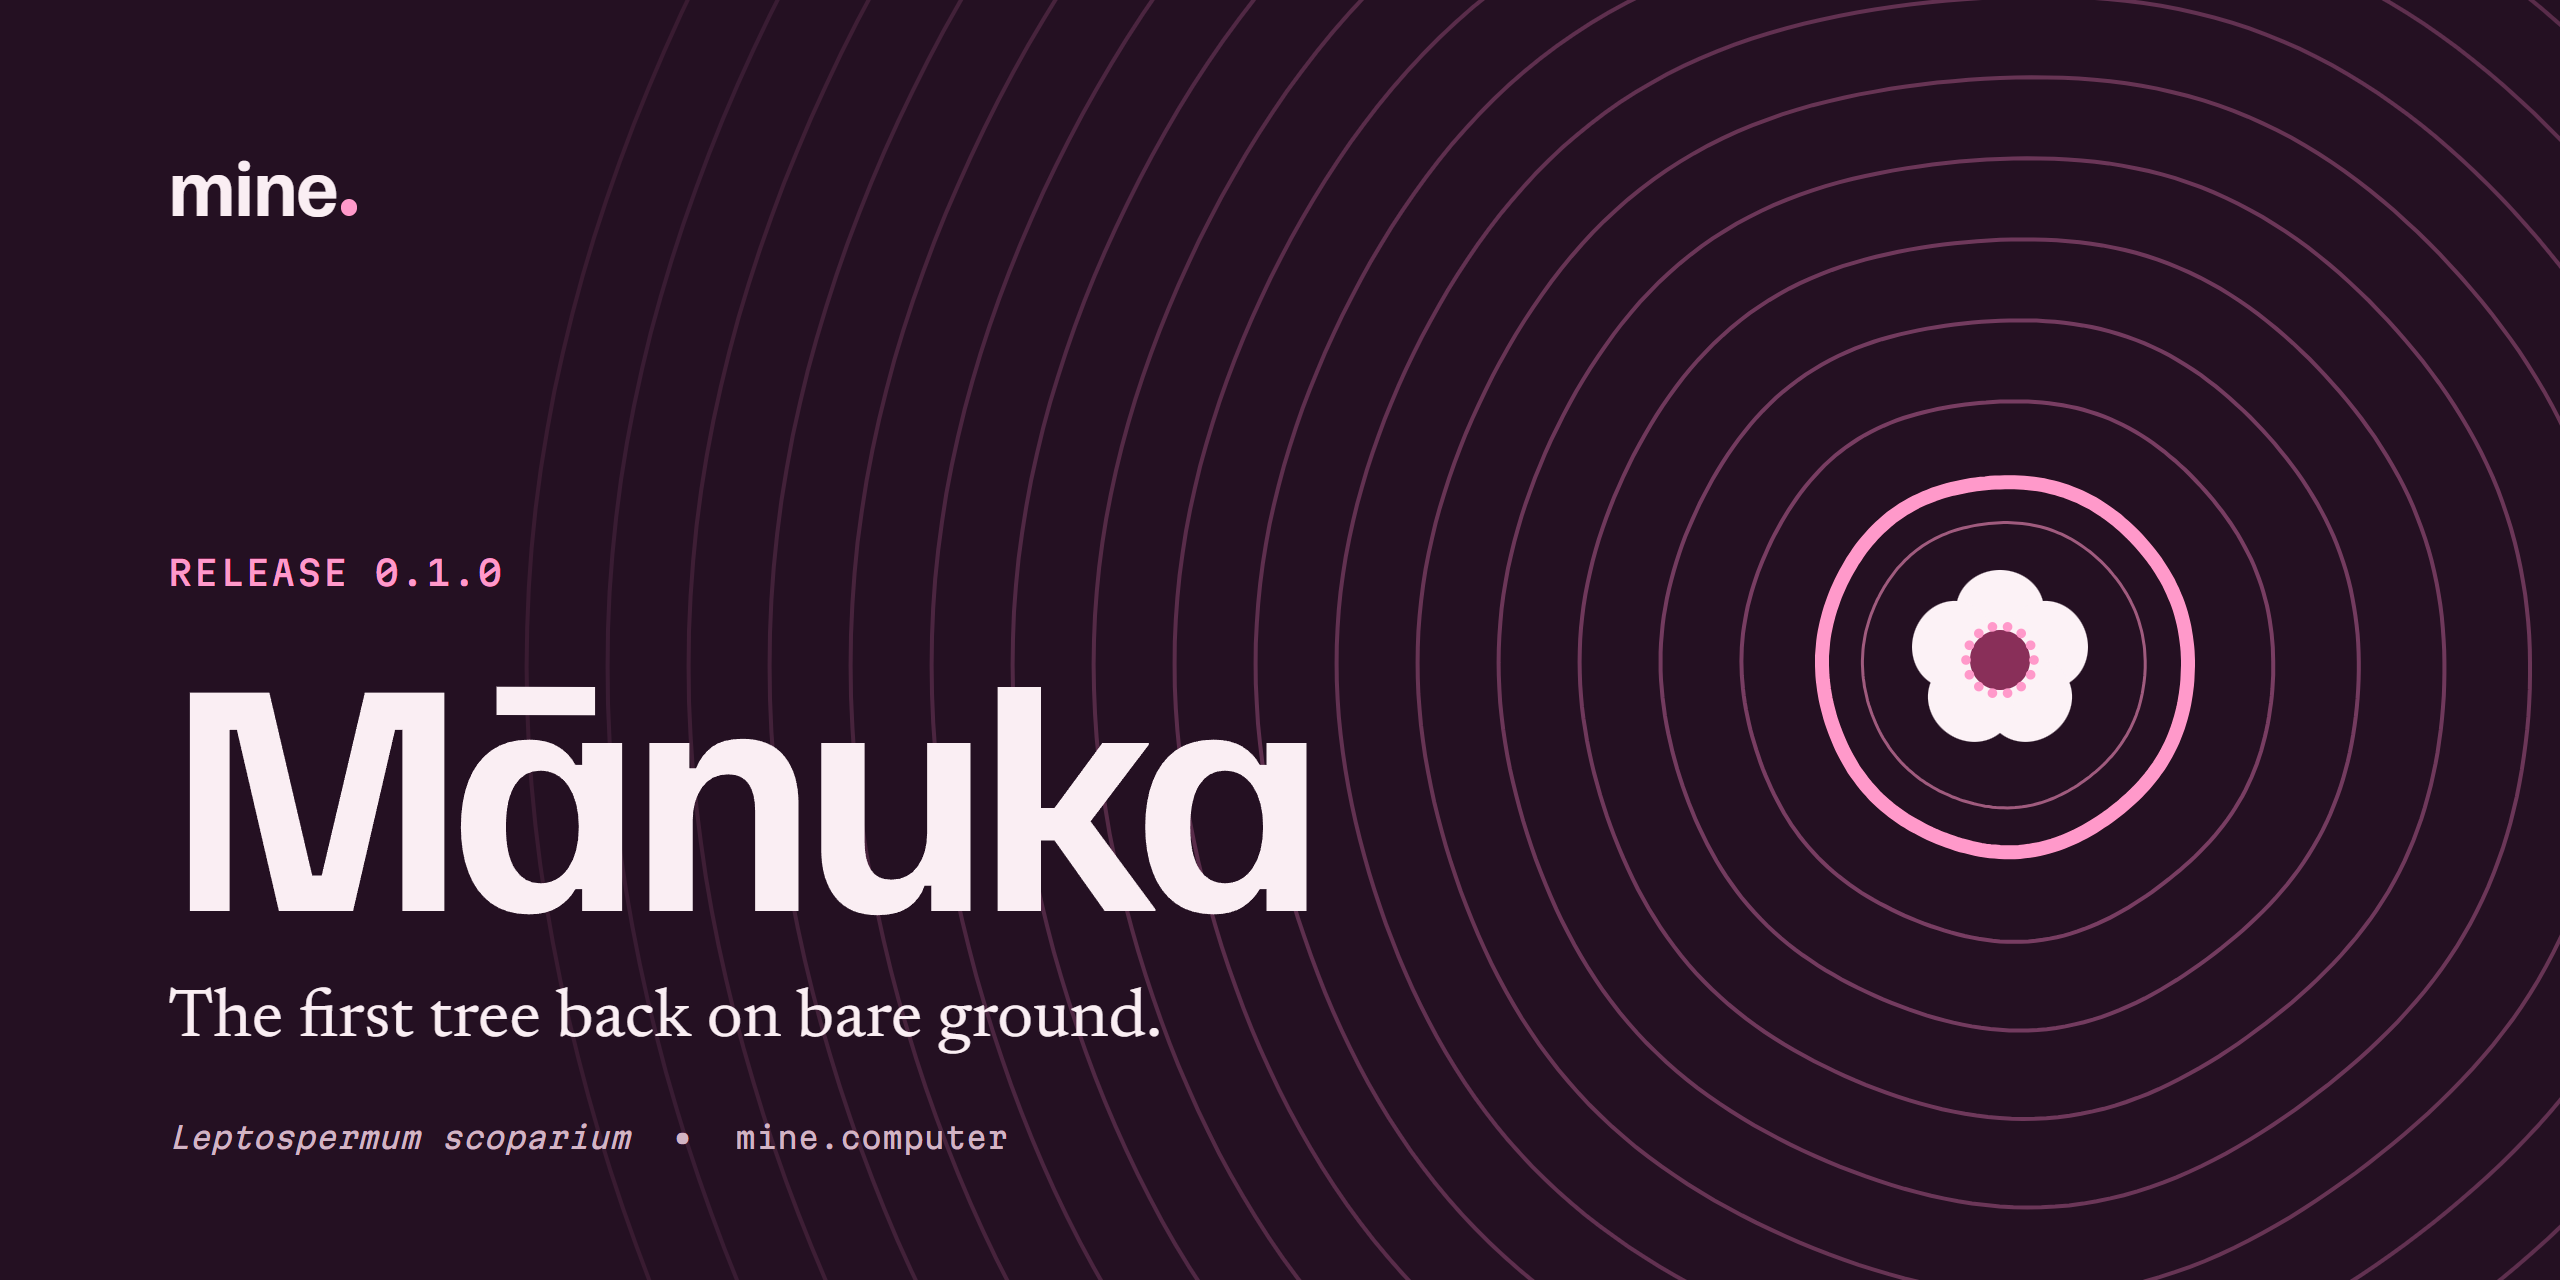
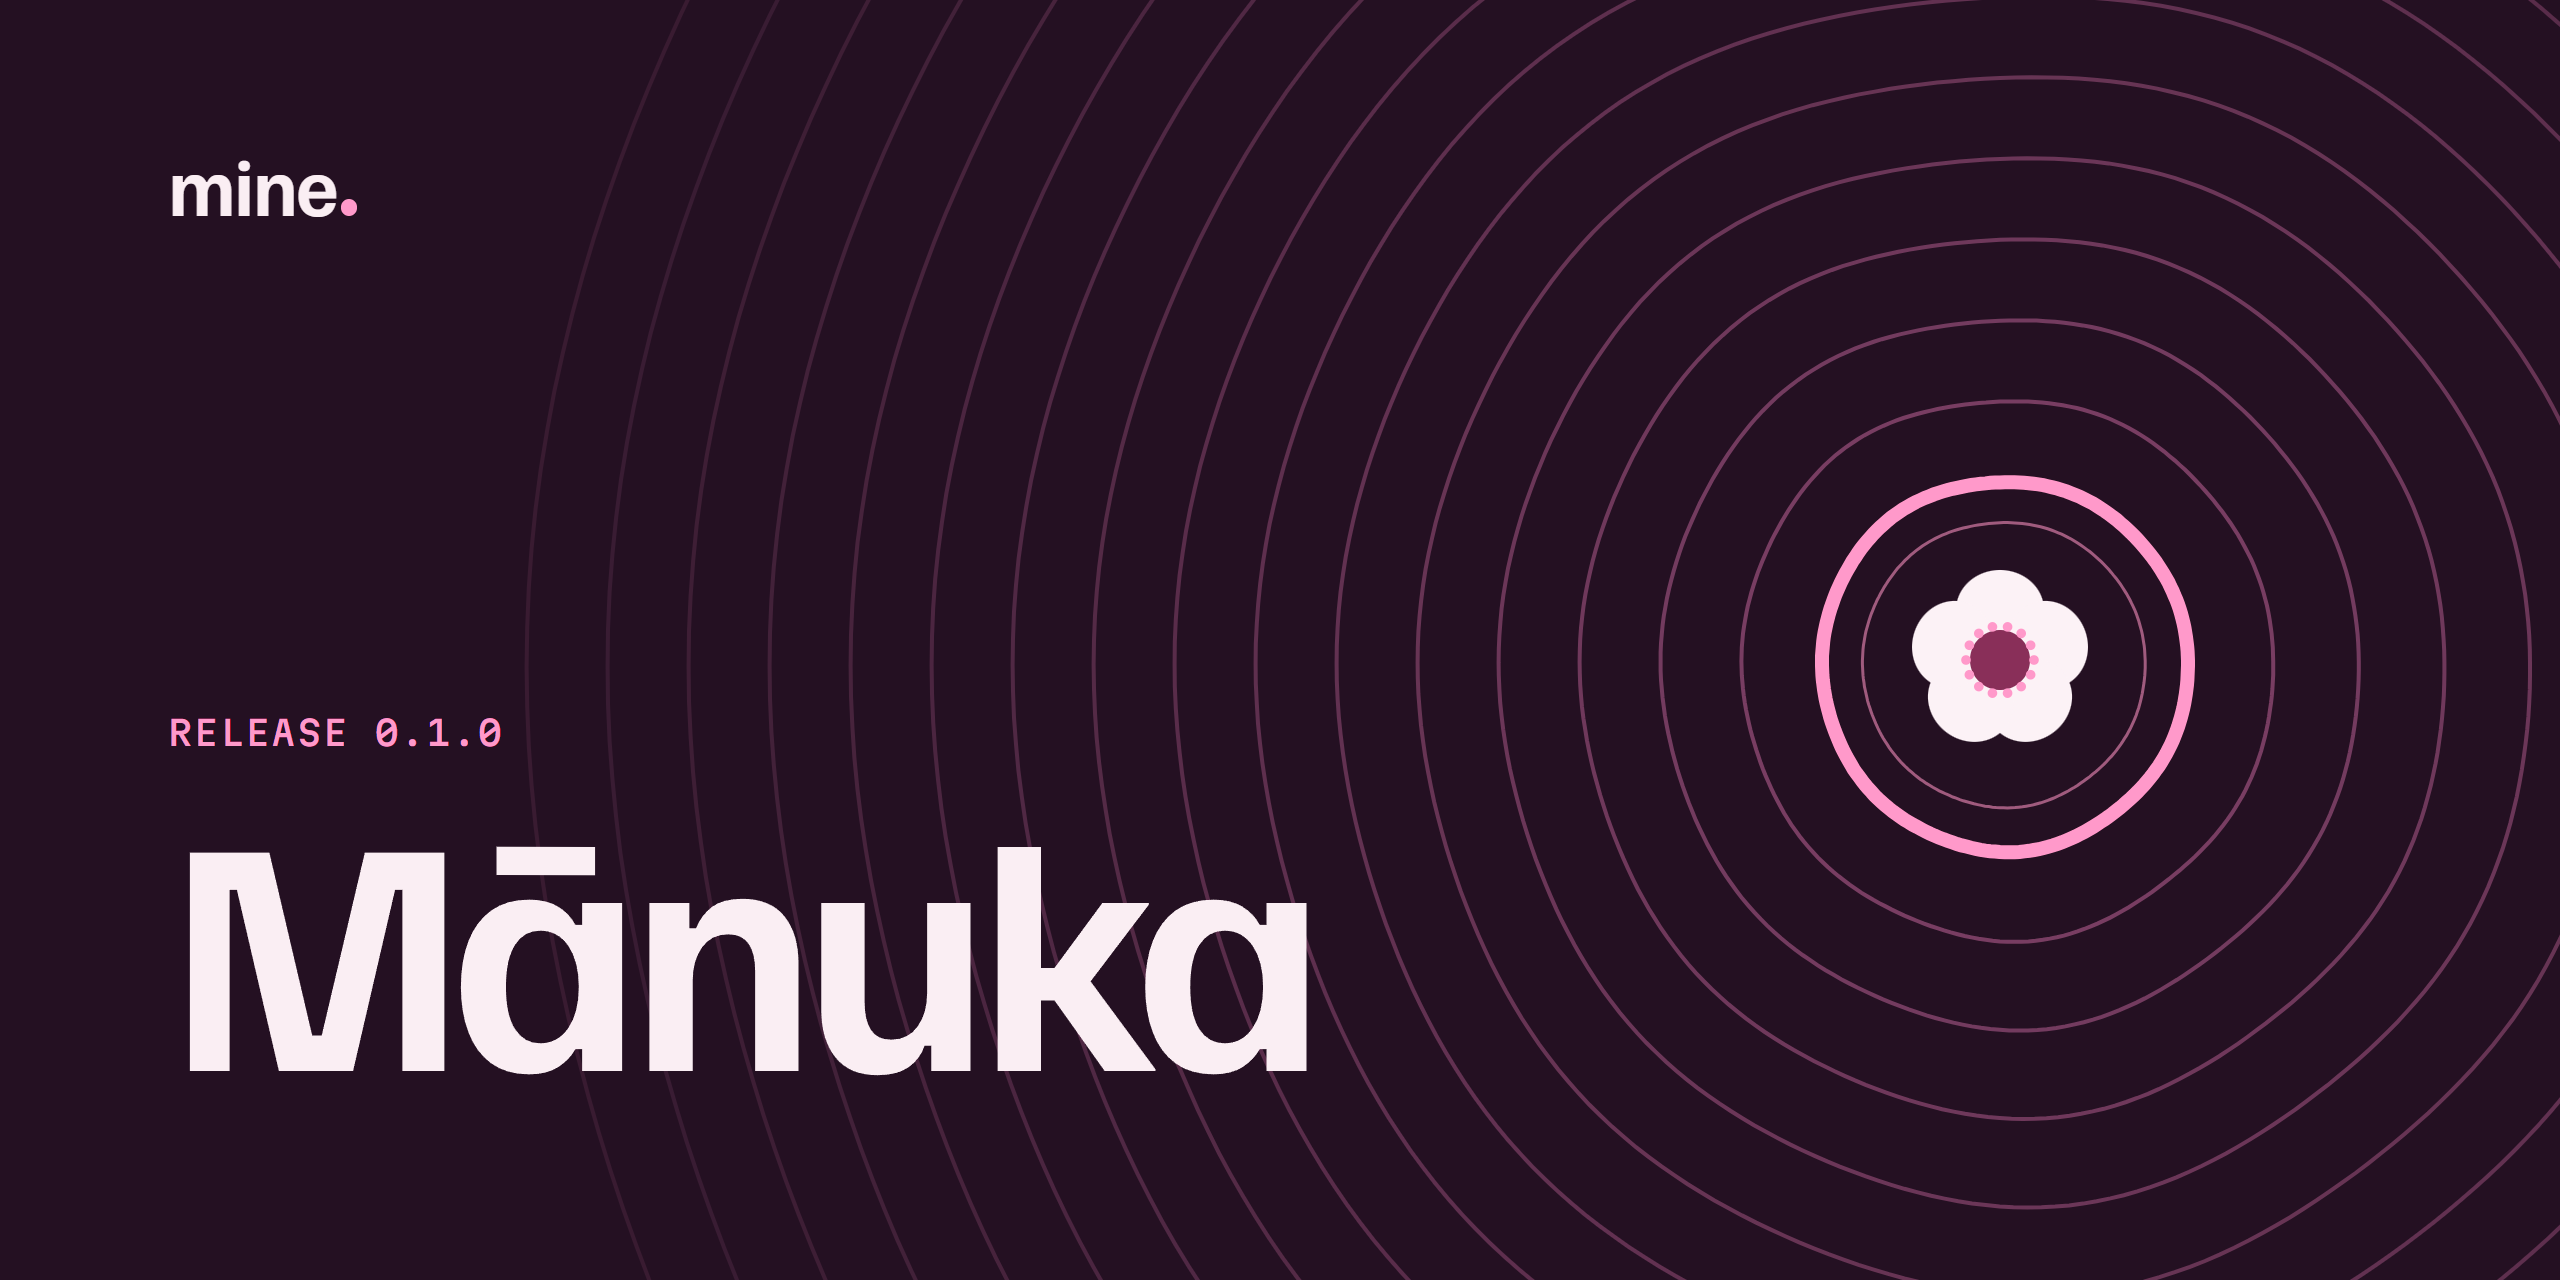
Keep release graphics and notes to the name
The graphic shows the wordmark, the version and the tree's name, with no
tagline or botanical name. The 0.1.0 notes no longer explain the name,
read more like I'd say it, and load the graphic from the repo so it
shows while the release is still a draft.

diff --git a/releases/0.1.0.md b/releases/0.1.0.md
@@ -1,26 +1,22 @@
-![mine 0.1.0, Mānuka](https://github.com/tinolaomahei/mine/releases/download/v0.1.0/mine-0.1.0-manuka.png)
+![mine 0.1.0, Mānuka](https://raw.githubusercontent.com/tinolaomahei/mine/main/releases/0.1.0.png)
 
 This is the first release of mine.
 
-mine is a desktop app for talking to your AI agent. When you first open it there's one button. You press it and talk, or type if you'd rather, and mine hands what you said to the agent you already use, signed in the way you already are. Over time it picks up the things you do a lot and turns them into commands that run straight away.
+mine is a desktop app for talking to your AI agent. When you open it there's one button. You press it and talk, or type if you'd rather, and mine hands it to the agent you already use, signed in the way you already are. The things you do a lot turn into commands that run straight away, without waiting on the agent.
 
-I'm building it for myself first. I wanted one place on my computer where I talk to my agent, see the work I do every day, and have the things I do over and over just happen. The agents are already pretty good, I think. What I was missing was somewhere for them to live that grows around how I work, so that's what I've been building.
-
-## Why Mānuka
-
-Each major version of mine is named after a native tree. Mānuka is a pioneer. It's the first thing to grow back on bare ground, and it shelters the trees that come up after it. That felt right for an app that starts with nothing. Every 0.x release is Mānuka, and each one adds another growth line to the rings on its graphic.
+I'm building it for myself first, so it's shaped around how I work. It's early and there are rough edges, but I think it's ready for other people to have a go.
 
 ## What's in it
 
-- **You bring the agent.** mine finds the agents on your computer (Claude Code, Codex, Gemini CLI, Pi and a few others) and runs the one you pick, in the folder you choose, on the subscription you already have.
-- **Your voice stays on your computer.** Parakeet turns speech into text locally. Tap the mic or press Space, or turn on Always listening and just talk.
-- **Simple things skip the agent.** Set up instant commands and a small, fast model picks the right command from what you said, so "dark mode" or "open the explorer" happens straight away. Anything you can click in mine is also something you can say.
-- **Your agent can build onto mine.** While you talk, it can write new commands and widgets for you. Nothing it writes runs until you approve it, and any change needs approving again.
-- **Screens.** Pages of widgets you arrange however you like. There's a marketplace with mine's own widgets and the ones your agent makes, and you can try any of them on sample data first.
-- **Connect the tools you use.** Tell mine about your day and the tools your team uses, and it works out what to connect and gives you a checklist for each one. There are 19 so far, including Jira, GitHub, Linear, Notion and Google Calendar, through their MCP servers, their APIs, or programs already signed in on your computer like `gh`. Tokens stay encrypted on your computer and only ever go to that service.
-- **Agents ask first.** Before your agent runs a command, edits a file or fetches a page, it asks and you click. You decide what it can always do, and you can take that back in Settings.
-- **The look is yours.** Light or dark, a theme marketplace, or ask your agent to restyle mine while you watch.
-- **Settings in one place,** including which agent, the working folder, voice, connections and permissions.
+- mine finds the agents on your computer, like Claude Code, Codex, Gemini CLI or Pi, and runs the one you pick in the folder you choose, on the subscription you already have.
+- Your voice stays on your computer. Speech is turned into text locally with Parakeet. Tap the mic or press Space, or turn on Always listening and just talk.
+- If you set up instant commands, a small fast model picks the right command from what you said, so "dark mode" or "open the explorer" happens straight away. Anything you can click in mine, you can also say.
+- Your agent can add to mine while you talk, with new commands and widgets. Nothing it writes runs until you approve it, and any change needs approving again.
+- Screens are pages of widgets you arrange however you like. There's a marketplace with mine's own widgets and the ones your agent makes, and you can try them on sample data first.
+- Tell mine what you do and which tools your team uses, and it gives you a checklist of exactly what to do to connect each one. There are 19 so far, including Jira, GitHub, Linear, Notion and Google Calendar. Your tokens are encrypted on your computer and only ever sent to that service.
+- Before your agent runs a command, edits a file or fetches a page, it asks you first. You choose what it can always do, and you can take that back in Settings.
+- Light or dark, a theme marketplace, or ask your agent to restyle mine while you watch.
+- Settings for all of it in one place.
 
 ## Installing it
 
@@ -31,20 +27,20 @@ Each major version of mine is named after a native tree. Mānuka is a pioneer. I
 | A Mac with an Intel chip | `mine-0.1.0-mac-x64.dmg` |
 | Linux | `.AppImage`, or the `.deb` (Debian, Ubuntu) or `.rpm` (Fedora) |
 
-You'll need an agent installed and signed in, like Claude Code. The speech model (about 640 MB) downloads the first time you use the mic.
+You'll need an agent installed and signed in, like Claude Code. The speech model is about 640 MB and downloads the first time you use the mic.
 
-The installers aren't signed yet. On Windows, SmartScreen will warn you, so choose More info, then Run anyway. On a Mac, macOS stops it the first time you open it. Go to System Settings, then Privacy & Security, and choose Open Anyway.
+The installers aren't signed yet. On Windows, SmartScreen will warn you, so click More info, then Run anyway. On a Mac, macOS will block it the first time you open it, so go to System Settings, then Privacy & Security, and click Open Anyway.
 
-`SHA256SUMS` has the checksums, and every file has build provenance you can check with `gh attestation verify <file> --repo tinolaomahei/mine`.
+`SHA256SUMS` has the checksums, and you can check where each file came from with `gh attestation verify <file> --repo tinolaomahei/mine`.
 
 ## Updates
 
-From this version on, mine looks for new releases by itself. On Windows and Linux it downloads the update in the background and installs it when you restart mine. On a Mac it tells you there's a new version and links back here, until I've got the app signed. You can turn this off, or check by hand, in Settings under About.
+From this version on, mine checks for new releases by itself. On Windows and Linux it downloads the update in the background and installs it next time you restart mine. On a Mac it'll let you know there's a new version and link back here, until I've sorted out signing. You can turn this off in Settings, under About.
 
 ## Rough edges
 
-- I've mostly used it on Windows. It runs on Mac and Linux, but I've spent much less time on those.
+- I've mostly used it on Windows so far. It runs on Mac and Linux, but I've spent a lot less time on those.
 - Signing in to Slack, Google, Microsoft, Asana, HubSpot and GitHub's MCP server needs mine registered with them first, and I haven't done that yet. Most of them have a token option in the meantime.
 - The Windows and Linux builds are x64 only for now.
 
-If you give it a go, I'd like to hear how it goes. Issues are open on GitHub.
+If you give it a go, let me know how you get on. Issues are open on GitHub.

diff --git a/releases/README.md b/releases/README.md
@@ -4,14 +4,14 @@ Each major version of mine is named after a native tree. Minor versions and patc
 
 Every release gets a graphic. The tree's name is on it, with the trunk drawn as rings: one pink ring for each major version so far, and a fine growth line inside the current ring for each minor release. The flower or seed of that version's tree sits in the middle.
 
-| Major | Tree | |
-| --- | --- | --- |
-| 0 | Mānuka | The first tree back on bare ground. It shelters the ones that come up after it. |
+| Major | Tree |
+| --- | --- |
+| 0 | Mānuka |
 
 ## Making one
 
 1. Add or check the tree for the major version in `trees.json`.
-2. Write the notes in `<version>.md`.
+2. Write the notes in `<version>.md`. Start them with the graphic from the repo, `![mine <version>, <tree>](https://raw.githubusercontent.com/tinolaomahei/mine/main/releases/<version>.png)`, so it shows while the release is still a draft too.
 3. Draw the graphic from `desktop/`:
 
    ```
